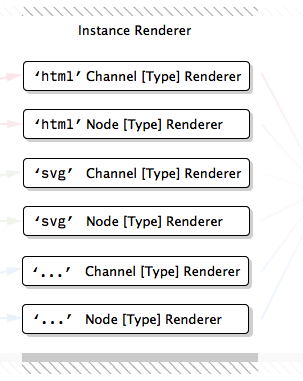
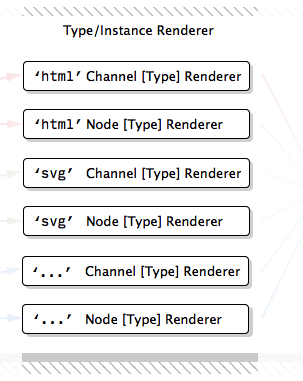
docs: clarifying Instance Renderers

Changed region(s): [[0.2079, 0.0577, 0.7129, 0.1155]]

diff --git a/docs/index.md b/docs/index.md
@@ -142,25 +142,49 @@ _Toolkit_ is a group of Node and Channel Types lying in (preferrably, but not re
 
 <!-- TODO SVG and HTML -->
 
+#### Rendering Flow
+
+This sub-section is actually not about a specific Term and intended to quickly clarify how the things described below work together.
+
+When you need to render a Patch, you need to know three things: which Renderer you want to use, which Style you prefer visually and the Target where you want everything to be injected. Style is optional, though, since `quartz` is the default one to be used, but sad things happen, and you may dislike it. So, to satisfy every taste, several Styles are included in RPD distribution. You actually may use same configuration to render several Patches, but let's leave it to [API docs](./api.html) for now.
+
+The engine of the rendering process is Actions. They are fired on every change of the value, when new Connection between Outlet and Inlet is established, or instead someone removed the Connection, or someone moved one Node etc. To the Rendering System there is no matter who did this Action, User or API call.
+
+> If you know what [Flux](https://facebook.github.io/flux/) or [Elm](http://elm-lang.org/) is, it is almost the same Action concept you've met there; if you don't know about both, just replace Action term with Event term here and below.
+
+So, for example you chose `'svg'` Renderer to render your Patch. What happens then? On every user or logical Action, this Renderer is notified. Then this Renderer decides which (preferably, the tiniest one) part of the Network it should re-render. If Node or Channel (Inlet or Outlet) is required to be updated, it searches for the corresponding Node Renderer or Channel Renderer, the one assigned to this Renderer. Node/Channel Renderer can render particular type of the Node/Channel (and then it's called Node/Channel Type Renderer) or it may be overridden for the specific instance of the Node/Channel (and then it's called Node/Channel Instance Renderer). If something else was updated, Renderer re-renders this part itself, without delegation. No, actually, it sometimes passes some updates to Style, just Node/Channel Renderer step is skipped in this case.
+
+In its turn, Node/Channel Renderer renders the body of the Node (`'svg'` Renderer uses SVG elements for that) or a value of the Channel (same, with SVG elements). Then the result of the rendering is injected into a structure, provided by selected Style.
+
+And the final piece of DOM (or whatever) is injected into the Target, into a proper place. Target for `'html'` Renderer should be some HTML element like `<div />`, for `'svg'` Renderer it should be some SVG element, preferably `<svg>` or `<g />`, and so on.
+
+That's it, now users sees the whole thing in dynamic.
+
+Now, let's describe the same process from participants' points of view.
+
 #### Renderer
 
 _Renderer_ is a system which determines the way current Patch model is rendered. For now, there are two Renderers: HTML and SVG, they render Patches to HTML or SVG tags correspondingly. For instance, HTML Renderer renders Link connections as `span` blocks with CSS borders and SVG Renderers just draws SVG `line` tags for the same purpose.
 
 Also, Renderer determines where new node will be placed if position was not specified.
 
-#### Node Type Renderer
+#### Node Type/Instance Renderer
 
 _Node Type Renderer_ builds the body of the Node and may update its content when some incoming update triggered it. Also, it may send values from inner controls to a hidden Inlets of the Node.
 
 There should be a separate Node Type Renderer for each way to render a node, such as HTML, SVG and so on. By default, if Node can't render itself in the requested way, it is rendered as an empty Node, yet having all the defined Inlets and Outlets.
 
-#### Channel Type Renderer
+_Node Instance Renderer_ has exactly the same definition structure, it just overrides the Node Type Renderer so you can render any specific Node instance completely another way with just re-defining Type Renderer inline.
+
+#### Channel Type/Instance Renderer
 
 _Channel Type Renderer_ builds the Inlet/Outlet value representation and also may add the editor to a Channel value.
 
 Editor is an optional control which lets user override the value in the Inlet.
 
 _NB: For the moment, value editors are only supported in HTML Renderer_
+
+_Channel Instance Renderer_ has exactly the same definition structure, it just overrides the Channel Type Renderer so you can render any specific Channel instance completely another way with just re-defining Type Renderer inline.
 
 #### Style
 
